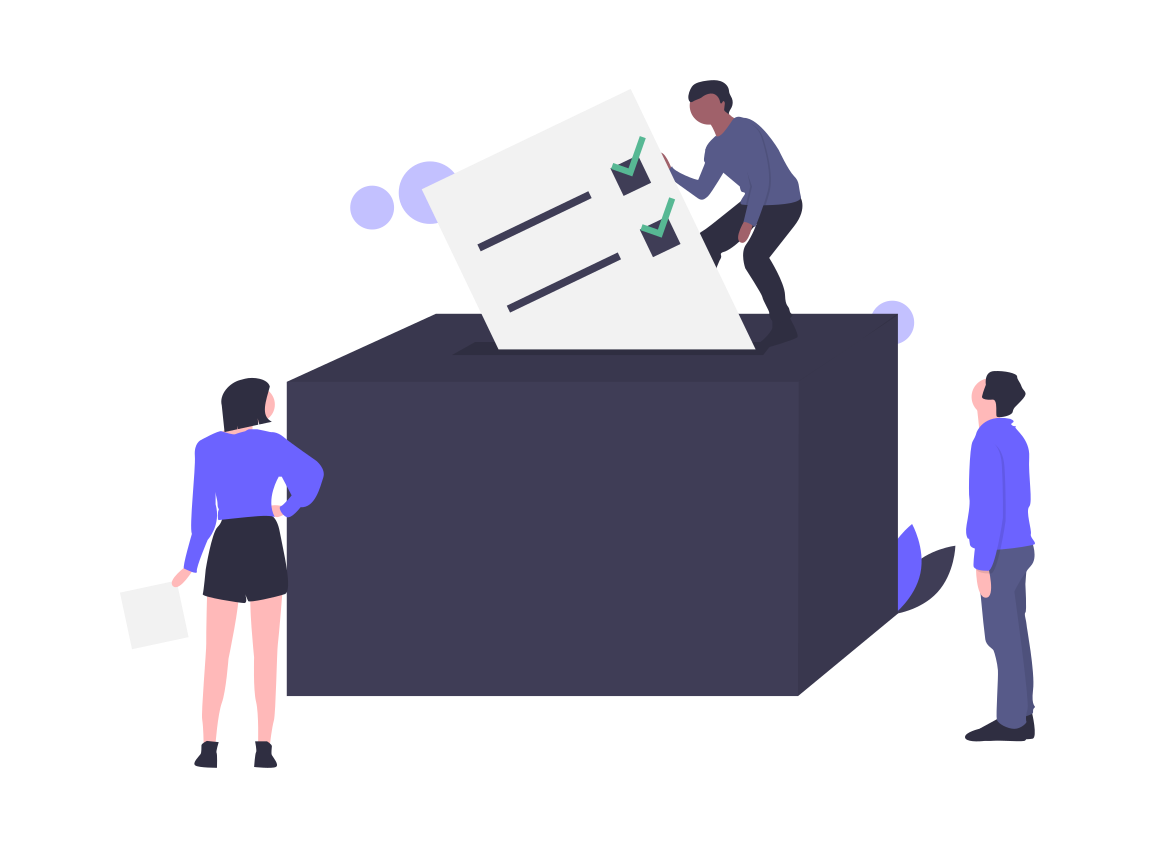
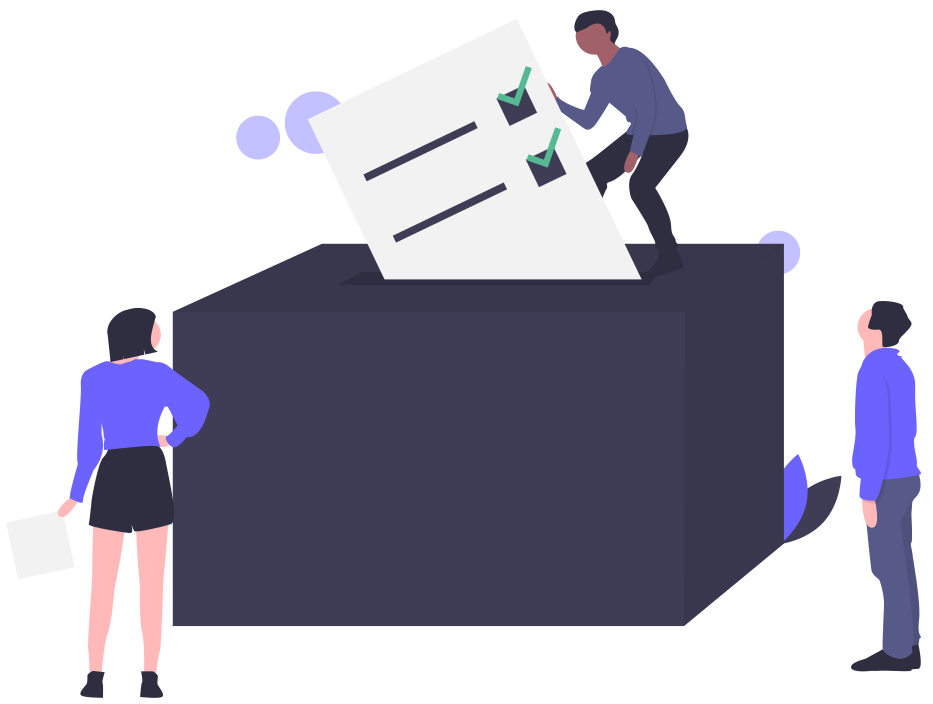
:art: Changement de la page d'accueil (image + textes)

Changed region(s): [[0.0622, 0.0, 0.9946, 1.0]]

diff --git a/web/assets/css/style.css b/web/assets/css/style.css
@@ -12,6 +12,11 @@
 	min-height: 100vh;
 }
 
+*, html {
+
+	scroll-behavior: smooth !important;
+}
+
 main { flex: 1; }
 
 .bg-image-urne {
@@ -19,6 +24,16 @@ main { flex: 1; }
 	background-size: cover;
 	background-position: center;
 	background-repeat: no-repeat;
+}
+
+.img-home {
+	width: 30rem;
+}
+
+@media screen and (min-width: 1280px) {
+	.img-home {
+		width: 50rem;
+	}
 }
 
 /* Quelques classes pour des couleurs utile */ 

diff --git a/src/view/home.php b/src/view/home.php
@@ -1,45 +1,54 @@
 <div>
-    <div class="flex flex-col lg:flex-row items-center justify-center pt-6 w-10/12 mx-auto">
+    <div class="flex flex-col 2xl:flex-row items-center justify-center gap-6 2xl:gap-0 pt-6 w-10/12 mx-auto">
         <div class="flex flex-col">
-            <h1 class="text-4xl font-bold w-96 text-center lg:text-left"><span class="text-dark">Venez voter en</span><br/><span class="text-main">quelques secondes</span></h1>
-            <h3 class="text-lg text-gray-400 pt-3 text-center lg:text-left">Exprime ton opinion en un clic !</h3>
-            <div class="flex pt-8 mx-auto lg:mx-0">
-                <a class="p-3 pl-6 pr-6 text-white bg-main font-bold rounded-md shadow-button" href="./frontController.php?action=section">Créer un vote</a>
+            <h1 class="text-4xl font-bold w-96 text-center 2xl:text-left"><span class="text-dark">Posez votre question</span><br/><span class="text-main">en quelques secondes</span></h1>
+            <h3 class="text-lg text-gray-400 pt-3 text-center 2xl:text-left">Obtient des réponses, exprime ton opinion !</h3>
+            <div class="flex pt-8 mx-auto 2xl:mx-0">
+                <a class="p-3 pl-6 pr-6 text-white bg-main font-bold rounded-md shadow-button" href="#debuter">Commencer l'aventure !</a>
             </div>
         </div>
-        <img class="lg:w-10/12" src="assets/resources/undraw_voting.png" alt="Vote">
+        <img src="assets/resources/undraw_voting.png" alt="Vote">
     </div>
     <?php
     echo '
-    <svg class="w-full pt-10" viewBox="0 0 1200 197" fill="none" xmlns="http://www.w3.org/2000/svg">
+    <svg id="debuter" class="w-full pt-10" viewBox="0 0 1200 197" fill="none" xmlns="http://www.w3.org/2000/svg">
         <path fill-rule="evenodd" clip-rule="evenodd" d="M2 164.554L59.375 143.923C116.75 123.293 231.5 82.0317 346.25 82.0317C461 82.0317 575.75 123.293 690.5 107.82C805.25 92.347 920 20.14 1034.75 20.14C1149.5 20.14 1264.25 92.347 1321.62 128.45L1379 164.554V195.5H1321.62C1264.25 195.5 1149.5 195.5 1034.75 195.5C920 195.5 805.25 195.5 690.5 195.5C575.75 195.5 461 195.5 346.25 195.5C231.5 195.5 116.75 195.5 59.375 195.5H2V164.554Z" fill="#AEA4FF" fill-opacity="0.8"/>
         <path fill-rule="evenodd" clip-rule="evenodd" d="M0 70.7686H57.4583C114.917 70.7686 229.833 70.7686 344.75 58.1456C459.667 45.5226 574.583 20.2766 689.5 37.1073C804.417 53.9379 919.333 112.845 1034.25 121.261C1149.17 129.676 1264.08 87.5992 1321.54 66.5609L1379 45.5226V196.999H1321.54C1264.08 196.999 1149.17 196.999 1034.25 196.999C919.333 196.999 804.417 196.999 689.5 196.999C574.583 196.999 459.667 196.999 344.75 196.999C229.833 196.999 114.917 196.999 57.4583 196.999H0V70.7686Z" fill="#8080D7" fill-opacity="0.8"/>
         <path fill-rule="evenodd" clip-rule="evenodd" d="M0 75.1952L33.3258 58.9546C65.5025 42.7139 131.005 10.2327 196.508 2.11234C263.159 -6.00798 328.662 10.2327 394.164 34.5936C459.667 58.9546 525.169 91.4358 590.672 119.857C656.174 148.278 722.826 172.639 788.328 176.699C853.831 180.759 919.333 164.519 984.836 132.037C1050.34 99.5562 1115.84 50.8342 1182.49 50.8342C1247.99 50.8342 1313.5 99.5562 1345.67 123.917L1379 148.278V197H1345.67C1313.5 197 1247.99 197 1182.49 197C1115.84 197 1050.34 197 984.836 197C919.333 197 853.831 197 788.328 197C722.826 197 656.174 197 590.672 197C525.169 197 459.667 197 394.164 197C328.662 197 263.159 197 196.508 197C131.005 197 65.5025 197 33.3258 197H0V75.1952Z" fill="#B8B8F8" fill-opacity="0.8"/>
     </svg>
     ';
     ?>
-    <div class="flex bg-home relative -top-1 flex-col items-center mx-auto gap-y-16 pb-24"> <!-- permet d'éviter un bug visuel d'un petit trait blanc -->
-        <div class="flex flex-col lg:flex-row w-4/5 gap-8 items-center pt-10">
+    <div class="flex bg-home relative -top-1 flex-col justify-center items-center gap-y-16 pb-24"> <!-- permet d'éviter un bug visuel d'un petit trait blanc -->
+        <div class="flex flex-col lg:flex-row gap-8 items-center justify-center">
+            <img class="img-home rounded-xl md:rounded-3xl shadow-md" src="assets/resources/demande.png" alt="Faire une demande">
             <div class="w-96 text-center lg:text-left">
-                <i class="fa-regular fa-envelope text-white text-2xl px-3 py-2 bg-main rounded-lg"></i>
-                <h3 class="text-white font-bold text-xl pt-2">Voter, c'est facile !</h3>
-                <p class="text-dark text-md pt-4">Votee, un système de vote dématérialisée à bulletin secret fiable, simple et sécurisée.<br/>Disponible partout et maintenant</p>
-                <div class="flex pt-3 justify-center lg:justify-start">
-                    <a class="p-2 pl-6 pr-6 text-white bg-main rounded-md font-semibold shadow" href="./frontController.php?action=readAllQuestion">Vote</a>
+                <span class="text-white text-2xl p-2 bg-main rounded-lg material-symbols-outlined">edit_square</span>
+                <h3 class="text-white font-bold text-xl pt-2">Créer une question, c’est trivial !</h3>
+                <p class="text-dark text-md pt-4 text-justify">Faites une demande de création de question pour en rédiger une et passer à l'action !</p>
+                <div class="flex flex-row gap-x-4 justify-center lg:justify-start pt-3">
+                    <a class="p-2 pl-6 pr-6 text-white bg-main rounded-lg font-semibold shadow" href="./frontController.php?controller=demande&action=createDemande&titreDemande=question">Faire une demande</a>
                 </div>
             </div>
-            <img class="lg:w-8/12 rounded-3xl shadow-md" src="assets/resources/voter.png" alt="Voter">
         </div>
         <div class="flex flex-col flex-col-reverse lg:flex-row gap-8 items-center justify-center">
-            <img class="w-10/12 lg:w-1/2 rounded-3xl shadow-md" src="assets/resources/creer_vote.png" alt="Créer un vote">
             <div class="w-96 text-center lg:text-left">
-                <i class="fa fa-pen-to-square text-white text-2xl px-3 py-2 bg-main rounded-lg"></i>
-                <h3 class="text-white font-bold text-xl pt-2">Créer une question, c'est trivial !</h3>
-                <p class="text-dark text-md pt-4">Réaliser un vote avec Votee pour déterminer simplement et rapidement l’opinion du public.<br/>Personnaliser votre vote comme bon vous semble.</p>
-                <div class="flex flex-row gap-x-4 justify-center lg:justify-start pt-3">
-                    <a class="p-2 pl-6 pr-6 text-white bg-main rounded-lg font-semibold shadow" href="./frontController.php?action=section">Créer un vote</a>
-                    <a class="p-2 pl-6 pr-6 text-main bg-white rounded-lg font-semibold shadow" href="./frontController.php?action=exemple">Voir un exemple</a>
+                <span class="text-white text-2xl p-2 bg-main rounded-lg material-symbols-outlined">edit_calendar</span>
+                <h3 class="text-white font-bold text-xl pt-2">Personnalisez votre question !</h3>
+                <p class="text-dark text-md pt-4 text-justify">Personnalisez votre question comme bon vous semble grâce à Votee en choissisant un système de vote qui <strong>vous</strong> correspond !</p>
+                <p class="text-dark text-md text-justify">Vous pourrez ainsi offrir la possibilité aux utilisateurs de pouvoir rédiger leur proposition sur votre question.</p>
+                <div class="flex pt-3 justify-center lg:justify-start">
+                    <a class="p-2 pl-6 pr-6 text-white bg-main rounded-md font-semibold shadow" href="./frontController.php?controller=question&action=section">Créer ma question</a>
                 </div>
+            </div>
+            <img class="img-home rounded-xl md:rounded-3xl shadow-md" src="assets/resources/question.png" alt="Créer une question">
+        </div>
+        <div class="flex flex-col lg:flex-row gap-8 items-center justify-center">
+            <img class="img-home rounded-xl md:rounded-3xl shadow-md" src="assets/resources/rediger.png" alt="Rédiger une proposition">
+            <div class="w-96 text-center lg:text-left">
+                <span class="text-white text-2xl p-2 bg-main rounded-lg material-symbols-outlined">rate_review</span>
+                <h3 class="text-white font-bold text-xl pt-2">Débâtez de vos opinions en rédigeant une proposition !</h3>
+                <p class="text-dark text-md pt-4 text-justify">Après avoir obtenu l'accord de l'organisateur de la question pour écrire, exprimez-vous librement sur la question de votre choix.</p>
+                <p class="text-dark text-md text-justify">Votee vous offre la possibilité de mettre en forme vos textes grâce à la puissance du <strong>Markdown</strong> !</p>
             </div>
         </div>
     </div>
@@ -50,7 +59,7 @@
                     <h3 class="text-2xl md:text-4xl font-bold text-main">Étes vous prêt à vous lancer ?</h3>
                     <h4 class="text-xl md:text-3xl font-semibold text-white">Commencer maintenant !</h4>
                 </div>
-                <a class="p-2 pl-6 pr-6 text-white bg-dark rounded-md font-semibold shadow" href="./frontController.php?action=readAllQuestion">Voter</a>
+                <a class="p-2 pl-6 pr-6 text-white bg-dark rounded-md font-semibold shadow" href="./frontController.php?controller=question&action=all">Voir les questions</a>
             </div>
         </div>
     </div>

diff --git a/src/view/view.php b/src/view/view.php
@@ -5,7 +5,6 @@
     <title><?php echo $pagetitle; ?></title>
     <link rel="stylesheet" type="text/css" href="assets/css/style.css">
     <link rel="stylesheet" type="text/css" href="assets/css/tailwindcss.min.css">
-    <link rel="stylesheet" href="https://cdnjs.cloudflare.com/ajax/libs/font-awesome/6.1.1/css/all.min.css">
     <link rel="stylesheet" href="https://fonts.googleapis.com/css2?family=Material+Symbols+Outlined:opsz,wght,FILL,GRAD@20..48,100..700,0..1,-50..200" />
     <link href="https://fonts.googleapis.com/icon?family=Material+Icons" rel="stylesheet">
     <script type="text/javascript" src="assets/js/nav-burger.js"></script>

diff --git a/src/view/question/createQuestion.php b/src/view/question/createQuestion.php
@@ -17,7 +17,7 @@
             for ($i = 1; $i <= $nbSections; $i++) {
                 echo '<div class="flex flex-col">
                          <label for="systeme_vote_id' . $i . '">Section ' . $i . ' :</label>
-                         <input type="text" placeholder="Nom de la section" minlength="10" maxlength="150" name="section' . $i .'" id="systeme_vote_id'. $i . '" required/>
+                         <input type="text" placeholder="Nom de la section" minlength="10" maxlength="350" name="section' . $i .'" id="systeme_vote_id'. $i . '" required/>
                       </div>';
             }
             ?>
